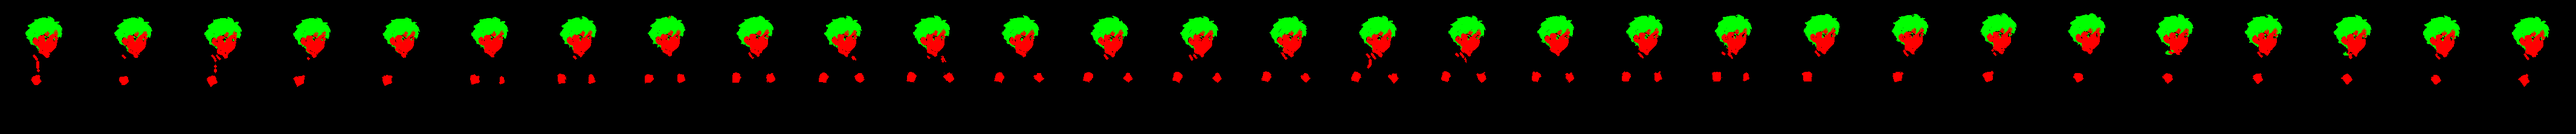
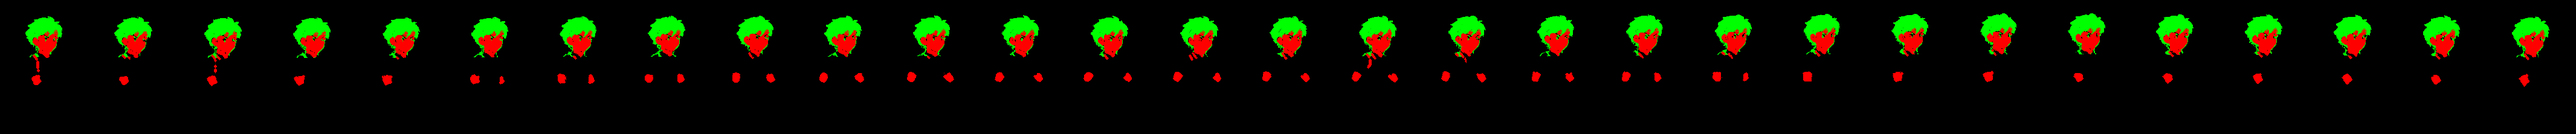
Arthur 2D walks: consistent outline and collar colour, motion unchanged
- ink_outline.py: approved drawing's line colour on every edge Sprixen left bare (cheek, arms),
  soft anti-aliased, existing lines untouched; outline coverage 74-82% -> 99-100%
- clean_sheet.py restore_collar: collar pixels Sprixen's background removal made see-through
  are restored instead of patched with mismatched colours
- geometry (head size, bob, legs, placement) measured on the sheet without the colour fixes,
  so nothing moves: alpha changes confined to the collar rows, idles byte-identical

Claude-Session: https://claude.ai/code/session_01BTTj8XQEKKbtmbxwbKeDto

diff --git a/tools/sprixen/build_char.py b/tools/sprixen/build_char.py
@@ -106,7 +106,7 @@ def build_set(name, prefix, cfg, cdir, base_files, extra_idles=True, body_h=None
             cb = clean_body(b)
         else:
             from clean_sheet import clean_soft   # soft outline to match the Sprixen-style walks
-            cb = clean_soft(b)
+            cb = clean_soft(b, collar=False)   # the standing drawings are approved as they are
         Image.fromarray(np.clip(cb, 0, 255).astype(np.uint8)).save(clean)
         views[v] = dict(base=base, clean=clean, prof=prof)
     ref = views[cfg.get("skin_reference", "side")]["clean"]
@@ -137,16 +137,29 @@ def build_set(name, prefix, cfg, cdir, base_files, extra_idles=True, body_h=None
             run("lock_head.py", sc, d["base"], lk, 2, 0, prof,
                 env={"LOCATE_BASE": loc_base} if locate_bases else None)
         else:   # Sprixen's own head (turns with the body, hair moves); only the matte is cleaned
+            # geometry (head size, bob, leg length, placement) is measured on the sheet WITHOUT the
+            # collar repair, so colour/outline fixes never move anything
+            geo = os.path.join(w, f"{direction}_geom.png")
+            run("clean_sheet.py", sc, geo, "--no-collar")
             run("clean_sheet.py", sc, lk)
-            print(run("match_head.py", lk, d["base"], lk, prof).stdout.strip())   # approved head size
-        print(run("match_legs.py", lk, d["base"], lk, prof).stdout.strip())   # never taller walking than standing
+            geo2 = geo.replace(".png", "_h.png")
+            print(run("match_head.py", geo, d["base"], geo2, prof).stdout.strip())   # approved head size
+            run("match_head.py", lk, d["base"], lk, prof, env={"GEOM_SHEET": geo})
+            geo3 = geo.replace(".png", "_l.png")
+            run("match_legs.py", geo2, d["base"], geo3, prof)
+            run("match_legs.py", lk, d["base"], lk, prof, env={"GEOM_SHEET": geo2})
+        if head_lock:
+            print(run("match_legs.py", lk, d["base"], lk, prof).stdout.strip())   # never taller walking than standing
         if cfg.get("fix_gloves"):
             run("fix_gloves.py", lk, lk)
         if d["clean"] != ref:
             run("skin_match.py", ref, lk, lk)
+        if not head_lock:   # Sprixen-style: give every frame the approved drawing's outline
+            print(run("ink_outline.py", lk, d["base"], lk).stdout.strip())
         fps = round(frames / cycle, 2)
         strip = os.path.join(ART, f"{prefix}_{direction}_walk.png")
-        run("build_walk_strip.py", lk, strip, H, fps, env={"BASE_H": base_h})
+        run("build_walk_strip.py", lk, strip, H, fps,
+            env={"BASE_H": base_h, **({} if head_lock else {"PLACE_FROM": geo3})})
         run("masks.py", strip, strip.replace(".png", "_mask.png"), head_px)   # skin/hair for recolouring
         manifest[f"walk_{direction}"] = {"frames": frames, "fps": fps}
         print(f"walk_{direction}: {out}")

diff --git a/tools/sprixen/ink_outline.py b/tools/sprixen/ink_outline.py
@@ -1,0 +1,64 @@
+"""Give every walk frame the same dark outline as the approved drawing, where Sprixen left it out.
+
+Sprixen's walk frames draw the outer line only in places: about half of the edge pixels are dark,
+against ~85% in the approved drawing, so a cheek, a sleeve or the side of a boot can end in bare
+colour against the background. This step inks the outer edge (the silhouette and the edges of the
+gaps between arm and body or between the legs) with the approved drawing's line colour:
+  - only pixels within ~2.5px of the edge, fading smoothly to nothing (anti-aliased, no pixel look),
+  - only where the pixel is lighter than the line already (existing lines are left exactly as drawn),
+  - alpha and every pixel further inside are untouched, so shapes, motion and colours stay the same.
+Works on a 256px-frame sheet (before the downscale).
+
+usage: python3 ink_outline.py <sheet.png> <base.png> <out.png>
+"""
+import sys
+import numpy as np
+from PIL import Image
+from scipy import ndimage
+
+SRC = 256
+FULL, FADE = 1.6, 3.0       # fully inked up to FULL px from the edge, nothing past FADE px
+
+
+def line_colour(base):
+    s = base[:, :, 3] > 128
+    d = ndimage.distance_transform_edt(s)
+    lum = base[:, :, :3].mean(2)
+    m = s & (d <= 2.5) & (lum < 100)
+    return np.median(base[m][:, :3], 0), float(np.median(lum[m]))
+
+
+def ink(f, col, col_l):
+    a = f[:, :, 3]
+    solid = a > 128
+    d = ndimage.distance_transform_edt(solid)
+    w = np.clip((FADE - d) / (FADE - FULL), 0, 1)
+    w = w * w * (3 - 2 * w)
+    w[~(a > 0)] = 0
+    # semi-transparent rim pixels (outside the solid shape) take the line colour fully
+    rim = (a > 0) & ~solid
+    w[rim] = 1.0
+    rgb = f[:, :, :3]
+    lum = rgb.mean(2)
+    need = np.clip((lum - col_l) / 60.0, 0, 1)          # already as dark as a line -> unchanged
+    k = (w * need)[:, :, None]
+    out = f.copy()
+    out[:, :, :3] = rgb * (1 - k) + col[None, None, :] * k
+    return out, float((w * need > 0.5).sum())
+
+
+def main():
+    sheet = np.array(Image.open(sys.argv[1]).convert("RGBA")).astype(np.float32)
+    base = np.array(Image.open(sys.argv[2]).convert("RGBA")).astype(np.float32)
+    col, col_l = line_colour(base)
+    out = sheet.copy()
+    inked = []
+    for i in range(sheet.shape[1] // SRC):
+        out[:, i * SRC:(i + 1) * SRC], n = ink(sheet[:, i * SRC:(i + 1) * SRC], col, col_l)
+        inked.append(int(n))
+    Image.fromarray(np.clip(out, 0, 255).astype(np.uint8)).save(sys.argv[3])
+    print(f"{sys.argv[1]}: outline inked with {tuple(int(c) for c in col)}; px per frame {min(inked)}-{max(inked)}")
+
+
+if __name__ == "__main__":
+    main()

diff --git a/tools/sprixen/clean_sheet.py b/tools/sprixen/clean_sheet.py
@@ -9,10 +9,47 @@ from scipy import ndimage
 from lock_head import clean_body, SRC
 
 
-def clean_soft(f):
+def restore_collar(f):
+    """Sprixen's background removal sometimes eats part of the white collar between neck and
+    shoulder: those pixels keep their real colour but come out half see-through, so the clean-up
+    cut a notch there and the notch was patched with mismatched colours. Pixels in that band that
+    sit in a concave notch of the body (inside a small closing of the shape) are made opaque again:
+    their own colour where Sprixen kept one, otherwise painted in smoothly from the neighbours."""
+    import cv2
+    a = f[:, :, 3]
+    body = a >= 60
+    ys = np.where(body.any(1))[0]
+    if not len(ys):
+        return f
+    top, bot = ys.min(), ys.max()
+    h = bot - top
+    band = np.zeros_like(body)
+    band[top + int(0.20 * h):top + int(0.42 * h)] = True        # chin to chest
+    disk = np.ones((9, 9), bool)
+    yy, xx = np.mgrid[-4:5, -4:5]
+    disk = (yy * yy + xx * xx) <= 16
+    closed = ndimage.binary_closing(np.pad(body, 6), structure=disk)[6:-6, 6:-6]
+    notch = closed & ~body & band
+    if not notch.any():
+        return f
+    out = f.copy()
+    keep = notch & (a >= 15) & (f[:, :, :3].min(2) > 150)      # pale collar colour survived
+    out[keep, 3] = 255
+    paint = notch & ~keep
+    if paint.any():
+        rgb = np.clip(out[:, :, :3], 0, 255).astype(np.uint8)
+        filled = cv2.inpaint(rgb, paint.astype(np.uint8) * 255, 3, cv2.INPAINT_TELEA)
+        out[paint, :3] = filled[paint]
+        out[paint, 3] = 255
+    return out
+
+
+def clean_soft(f, collar=True):
     """clean_body, but the outline keeps Sprixen's soft (anti-aliased) edge instead of a hard
     on/off one, so the downscaled sprite has smooth outlines; small enclosed gaps in the head
     and chest (e.g. the notch Sprixen leaves between nape and collar) are closed."""
+    if collar:
+        f = restore_collar(f)
     c = clean_body(f)
     solid = c[:, :, 3] > 0
     # backdrop seen through narrow gaps (between the legs, arm and body) comes out light grey-blue;
@@ -61,5 +98,6 @@ if __name__ == "__main__":
     sheet = np.array(Image.open(sys.argv[1]).convert("RGBA")).astype(np.float32)
     out = sheet.copy()
     for i in range(sheet.shape[1] // SRC):
-        out[:, i * SRC:(i + 1) * SRC] = clean_soft(sheet[:, i * SRC:(i + 1) * SRC])
+        out[:, i * SRC:(i + 1) * SRC] = clean_soft(sheet[:, i * SRC:(i + 1) * SRC],
+                                                   collar="--no-collar" not in sys.argv)
     Image.fromarray(np.clip(out, 0, 255).astype(np.uint8)).save(sys.argv[2])

diff --git a/tools/sprixen/match_head.py b/tools/sprixen/match_head.py
@@ -34,12 +34,18 @@ def main():
     prof = json.loads(sys.argv[4])
     n = sheet.shape[1] // SRC
     frames = [sheet[:, i * SRC:(i + 1) * SRC] for i in range(n)]
+    # GEOM_SHEET: measure on another sheet with the same drawing geometry (e.g. before a colour-only
+    # fix), so a colour fix never moves anything
+    import os
+    gp = os.environ.get("GEOM_SHEET")
+    geom = np.array(Image.open(gp).convert("RGBA")).astype(np.float32) if gp else sheet
+    gframes = [geom[:, i * SRC:(i + 1) * SRC] for i in range(n)]
     t0, t1 = prof["HEAD_TOP"], prof["CHIN_CUT"]
     head = base[t0:t1]
     cols = np.where(head[:, :, 3].max(0) > 40)[0]
     head = head[:, cols.min():cols.max() + 1]
     tm0 = gray(head)
-    imgs = [gray(f) for f in frames]
+    imgs = [gray(f) for f in gframes]
     best = None
     for k in np.arange(0.85, 1.151, 0.005):
         t = cv2.resize(tm0, None, fx=k, fy=k, interpolation=cv2.INTER_AREA)
@@ -88,7 +94,7 @@ def main():
             sc = 1 + (f - 1) * w
             sx = ax + (xx - ax) / sc
             sy = ay + (yy - ay) / sc
-        ys_a = np.where(fr[:, :, 3].max(1) > 40)[0]
+        ys_a = np.where(gframes[i][:, :, 3].max(1) > 40)[0]
         top, bot = ys_a.min(), ys_a.max()
         chest, hip = top + 0.36 * (bot - top), top + 0.52 * (bot - top)
         wv = np.clip((hip - yy) / (hip - chest), 0, 1)

diff --git a/tools/sprixen/build_walk_strip.py b/tools/sprixen/build_walk_strip.py
@@ -33,8 +33,12 @@ def main():
     n_all = sheet.width // SRC
     order = [int(x) for x in sys.argv[5].split(",")] if len(sys.argv) > 5 else list(range(n_all))
     frames = [sheet.crop((i * SRC, 0, (i + 1) * SRC, SRC)) for i in order]
+    import os
+    pf = os.environ.get("PLACE_FROM")      # same geometry, measured before a colour-only fix
+    psheet = Image.open(pf).convert("RGBA") if pf else sheet
+    pframes = [psheet.crop((i * SRC, 0, (i + 1) * SRC, SRC)) for i in order]
     info = []
-    for f in frames:
+    for f in pframes:
         a = alpha(f)
         ys, xs = np.where(a)
         top, bot = ys.min(), ys.max()
@@ -66,7 +70,7 @@ def main():
         clipped = Image.new("RGBA", cell.size, (0, 0, 0, 0))
         clipped.paste(cell, (0, 0), mask)
         strip.alpha_composite(clipped)
-        a = alpha(f)
+        a = alpha(pframes[i])
         ys, xs = np.where(a)
         low = xs[ys > d["bot"] - 4]
         foot_x.append((low.min() - d["torso"]) * s)   # toe-side unused; heel edge

diff --git a/tools/sprixen/match_legs.py b/tools/sprixen/match_legs.py
@@ -37,8 +37,11 @@ def main():
     tm = gray(base[t0:t1])
     by = np.where(base[:, :, 3].max(1) > 40)[0]
     base_h = by.max() - t0                       # head-paste top -> feet, approved drawing
+    import os
+    gp = os.environ.get("GEOM_SHEET")
+    geom = np.array(Image.open(gp).convert("RGBA")).astype(np.float32) if gp else sheet
     hs, tops, bots = [], [], []
-    for f in frames:
+    for f in [geom[:, i * SRC:(i + 1) * SRC] for i in range(n)]:
         r = cv2.matchTemplate(gray(f), tm, cv2.TM_CCOEFF_NORMED)
         _, _, _, loc = cv2.minMaxLoc(r)
         ys = np.where(f[:, :, 3].max(1) > 40)[0]
